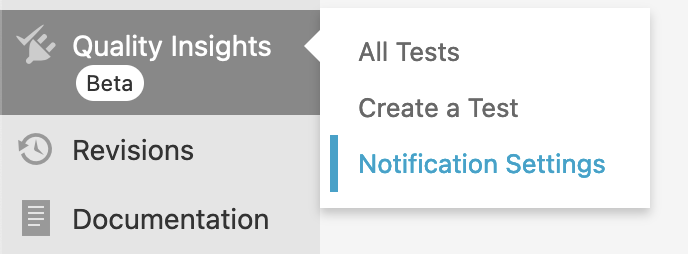
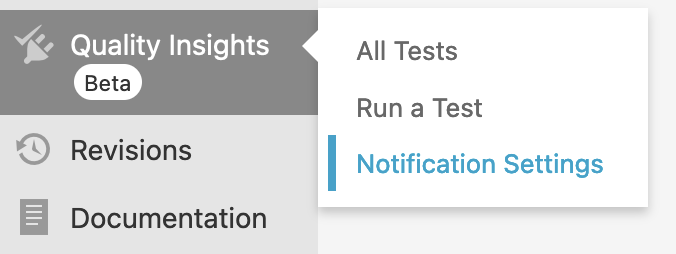
Updated menu screenshots to run a test

diff --git a/docs/dashboard/getting-started.md b/docs/dashboard/getting-started.md
@@ -4,11 +4,11 @@ The QIT Dashboard is a tool available to extension developers in the WooCommerce
 
 To get started, you'll need to log in to your account on WooCommerce.com. Once you log in to your account, click on "Vendor Dashboard" to go to your dashboard:
 
-![go-to-dashboard](_media/go-to-dashboard.png ':size=50%')
+![go-to-dashboard](_media/go-to-dashboard.png ":size=50%")
 
 In the menu on the left-hand side, you'll see a new `Quality Insights` menu item:
 
-![qi-menu-option](_media/qi-menu-option.png ':size=25%')
+![qi-menu-option](_media/qi-menu-option.png ":size=25%")
 
 Hovering over the menu will give you the three sections that make up the QIT Dashboard:
 
@@ -20,23 +20,23 @@ More details on each of these options is provided below.
 
 ## All tests
 
-![all-tests-menu](_media/all-tests-menu.png ':size=40%')
+![all-tests-menu](_media/all-tests-menu.png ":size=40%")
 
 The All Test page gives you insight into the extension the tests were ran against, the version of the extension, and what test type was ran. In addition, you can see what the results of the test runs were (such as failed, success, or pending if they’re currently running) and, in the case of end-to-end tests, view the [Allure test report](understanding-allure-results.md) if the tests fail.
 
 For more insight into the test results, please see [Viewing test results](dashboard/viewing-test-results.md).
 
-## Create a test
+## Run a test
 
-![create-a-test-menu](_media/create-a-test-menu.png ':size=40%')
+![run-a-test-menu](_media/run-a-test-menu.png ":size=40%")
 
 On this page, you can select [the type of test](dashboard/README.md#test-types) you'd like to run, which extension to test, and choose the versions of WooCommerce and WordPress to run the tests against.
 
-For more details around creating a test, please see [Start a test](dashboard/start-a-test.md).
+For more details around creating a test, please see [Run a test](dashboard/run-a-test.md).
 
 ## Notification settings
 
-![notification-settings-menu](_media/notification-settings-menu.png ':size=40%')
+![notification-settings-menu](_media/notification-settings-menu.png ":size=40%")
 
 If any of the tests result in a failed test result, we will send out an email that contains details on the test type that failed and the versions of the extension, WooCommerce, and WordPress that the test failed for. Email notifications can be enabled or disabled for each test type. By default, emails will be sent to your account email address.
 

diff --git a/docs/dashboard/run-a-test.md b/docs/dashboard/run-a-test.md
@@ -1,16 +1,16 @@
-# Create a test
+# Run a test
 
-To create a new test, navigate to the `Create a Test` page under the `Quality Insights` menu:
+To start a new test, navigate to the `Run a Test` page under the `Quality Insights` menu:
 
-![create-a-test-menu](_media/create-a-test-menu.png ':size=40%')
+![run-a-test-menu](_media/run-a-test-menu.png ":size=40%")
 
 On this page, you can configure the type of test to run, the product to run the tests against, and which release version:
 
-![create-a-test-page](_media/create-a-test-page.png)
+![run-a-test-page](_media/run-a-test-page.png)
 
 Once you've selected the type of test you'd like to run, the product to run it against, and the release version, click the `Confirm and run test` button at the bottom to queue up the test to be ran:
 
-![create-a-test-start](_media/create-a-test-start.png)
+![run-a-test-start](_media/run-a-test-start.png)
 
 Once the test has been queued up, you'll be redirected to the All Tests page and will see a success notification that the test has been created:
 
@@ -47,5 +47,5 @@ Select the product you'd like to run the tests against. All products that you ha
 
 Select the release versions of WooCommerce and WordPress you'd like to execute the tests against. Currently there are two options available:
 
--  The most recent releases of WordPress and WooCommerce.
--  The most recent release of WordPress and the latest release candidate version of WooCommerce.
+- The most recent releases of WordPress and WooCommerce.
+- The most recent release of WordPress and the latest release candidate version of WooCommerce.

diff --git a/docs/_sidebar.md b/docs/_sidebar.md
@@ -2,18 +2,18 @@
 
 - QIT Dashboard
 
-    - [Getting started](dashboard/getting-started.md)
-    - [Create a test](dashboard/create-a-test.md)
-    - [Viewing test results](dashboard/viewing-test-results.md)
-    - [Configure notifications](dashboard/notifications.md)
-    - [Changelog](dashboard/changelog.md)
+  - [Getting started](dashboard/getting-started.md)
+  - [Run a test](dashboard/run-a-test.md)
+  - [Viewing test results](dashboard/viewing-test-results.md)
+  - [Configure notifications](dashboard/notifications.md)
+  - [Changelog](dashboard/changelog.md)
 
 - QIT Client
 
-    - [Getting started](client/getting-started.md)
-    - [Running tests](client/running-tests.md)
-    - [Useful commands](client/useful-commands.md)
-    - [Changelog](client/changelog.md)
+  - [Getting started](client/getting-started.md)
+  - [Running tests](client/running-tests.md)
+  - [Useful commands](client/useful-commands.md)
+  - [Changelog](client/changelog.md)
 
 - [Test types](test-types.md)
 
